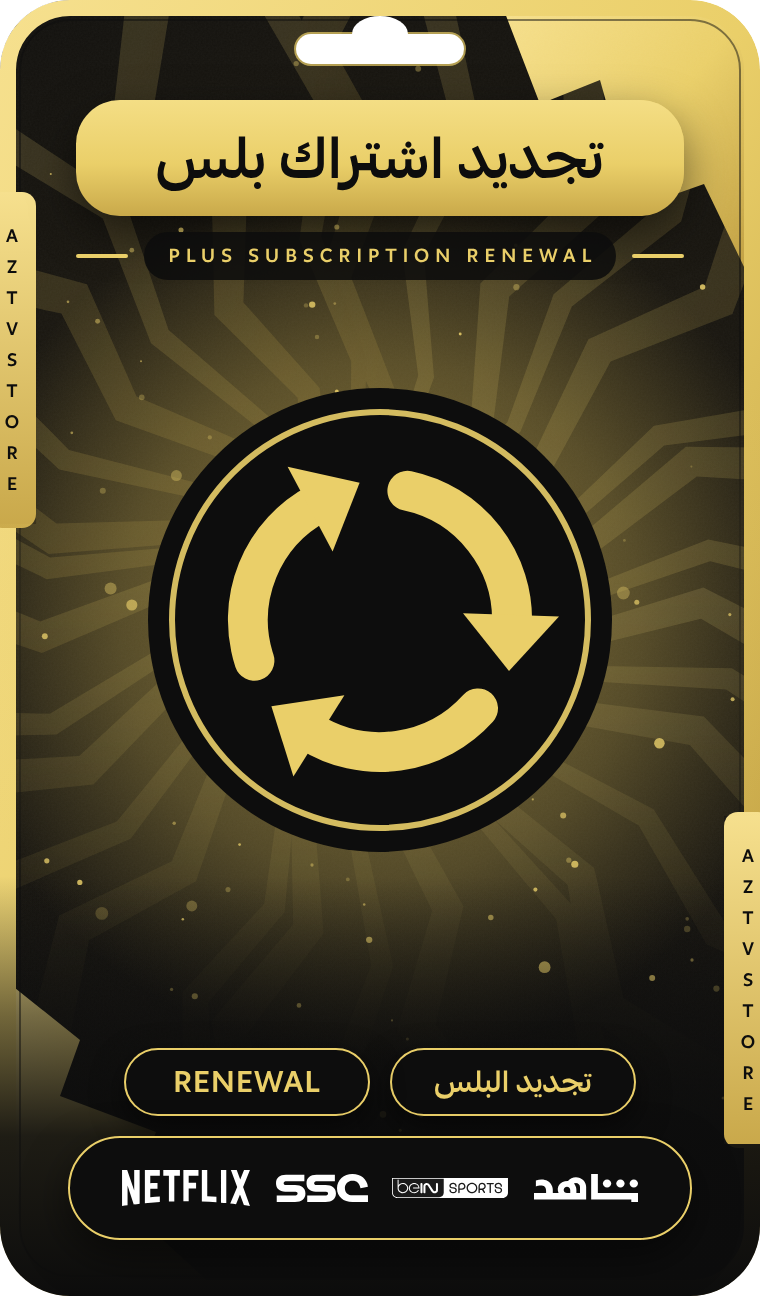
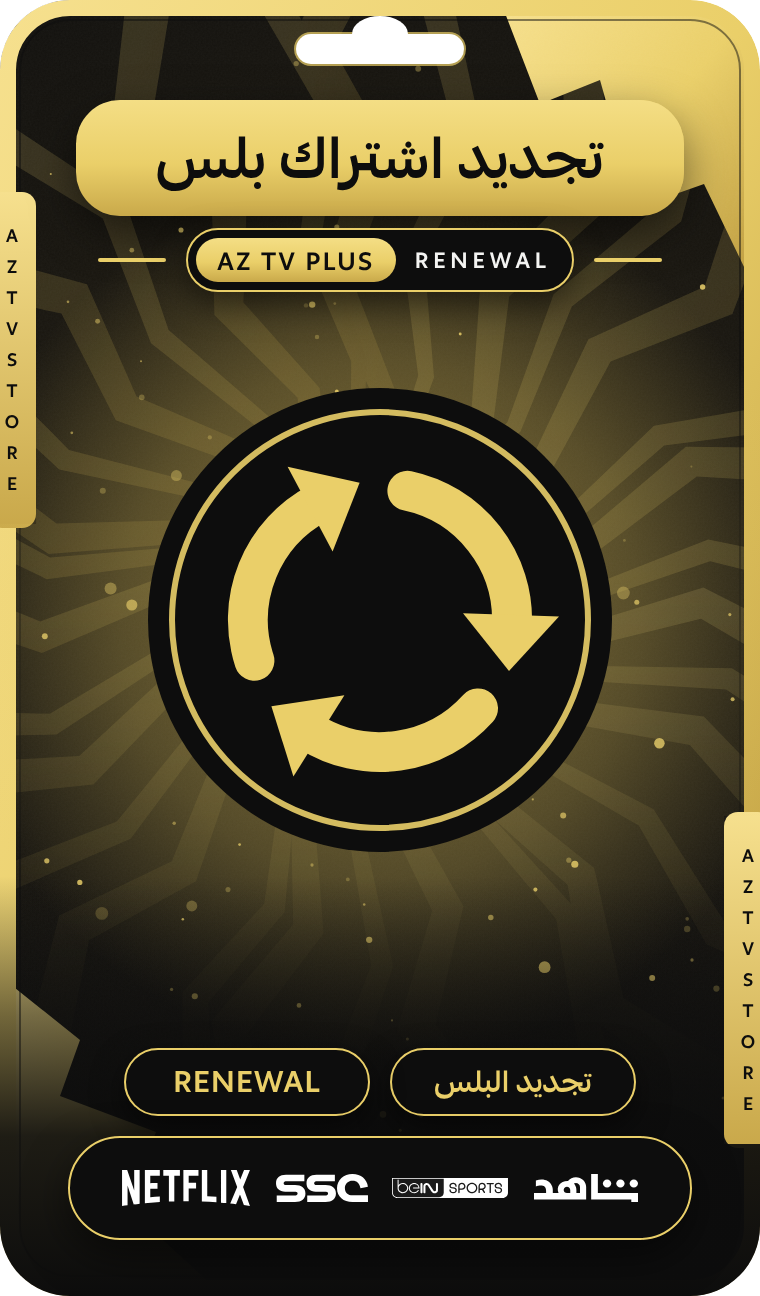
Cards: new star photos on AZ TV 6 months and Plus 1 year; clearer package line
Photo 013 replaces the dark star photo on AZ TV 6 months and photo 012
replaces 008 on Plus 1 year (both supplied already transparent). The small
AZ TV SUBSCRIPTION line under the title becomes a pill with the package name
in a chip (white for AZ TV, gold for AZ TV PLUS), then SUBSCRIPTION or RENEWAL.

Claude-Session: https://claude.ai/code/session_01FygVLnFo91EcE1sreJGJg8

Changed region(s): [[0.1211, 0.1543, 0.8776, 0.2469]]

diff --git a/05-design/shared/subscription-cards/card.html b/05-design/shared/subscription-cards/card.html
@@ -27,10 +27,14 @@
   /* light floor under the duration and logo pills, so they sit on a calm base and the photos fade into it */
   .floor { position: absolute; inset: auto 0 0; height: 210px; z-index: 8; pointer-events: none;
     background: linear-gradient(to top, rgba(244,244,242,1) 0, rgba(244,244,242,.94) 80px, rgba(244,244,242,.6) 140px, rgba(244,244,242,0) 210px); }
-  .sub { position: absolute; left: 0; right: 0; top: 116px; z-index: 10; display: flex; align-items: center; justify-content: center; gap: 8px;
-    direction: ltr; font-size: 9.5px; font-weight: 700; letter-spacing: .32em; color: var(--ink); }
-  .sub::before, .sub::after { content: ""; width: 26px; height: 2px; border-radius: 2px; background: var(--ink); }
-  .sub span { padding: 3px 9px 3px 12px; border-radius: 99px; background: rgba(244,244,242,.92); }
+  /* package line under the title: the package name in a light chip, then SUBSCRIPTION (or RENEWAL) */
+  .sub { position: absolute; left: 0; right: 0; top: 114px; z-index: 10; display: flex; align-items: center; justify-content: center; gap: 10px;
+    direction: ltr; font-weight: 700; }
+  .sub::before, .sub::after { content: ""; width: 34px; height: 2.5px; border-radius: 2px; background: var(--ink); }
+  .sub > span { display: flex; align-items: center; gap: 9px; height: 30px; padding: 0 11px 0 4px; border-radius: 99px;
+    background: var(--ink); color: #D6D6D2; font-size: 11px; letter-spacing: .22em; box-shadow: 0 6px 16px rgba(0,0,0,.25); }
+  .sub b { display: grid; place-items: center; height: 22px; padding: 0 11px; border-radius: 99px; background: var(--white); color: var(--ink);
+    font-size: 12.5px; letter-spacing: .1em; }
   .card > img.tabs { z-index: 9; clip-path: path("M0 97 H18 V262 H0 Z M362 408 H380 V572 H362 Z"); }
   .photos img { position: absolute; height: auto; filter: grayscale(1) contrast(1.15) brightness(1.02);
     -webkit-mask-image: linear-gradient(to bottom, #000 72%, transparent 97%); mask-image: linear-gradient(to bottom, #000 72%, transparent 97%); }
@@ -69,9 +73,9 @@
   .plus .floor { background: linear-gradient(to top, rgba(13,13,13,1) 0, rgba(13,13,13,.92) 80px, rgba(13,13,13,.55) 140px, rgba(13,13,13,0) 210px); }
   .plus .photos img { filter: grayscale(1) sepia(.55) saturate(1.25) contrast(1.12) brightness(.96); }
   .plus .title { background: linear-gradient(180deg, #F4DE85, var(--gold) 55%, #C9A94A); color: var(--ink); box-shadow: 0 8px 22px rgba(0,0,0,.5); }
-  .plus .sub { color: var(--gold); }
   .plus .sub::before, .plus .sub::after { background: var(--gold); }
-  .plus .sub span { background: rgba(13,13,13,.88); }
+  .plus .sub > span { border: 1.5px solid var(--gold); color: var(--white); box-shadow: 0 6px 16px rgba(0,0,0,.5); }
+  .plus .sub b { background: linear-gradient(180deg, #F4DE85, var(--gold) 55%, #C9A94A); }
   .plus .duration span { background: var(--ink); color: var(--gold); border: 1.5px solid var(--gold); box-shadow: 0 6px 16px rgba(0,0,0,.5); }
   .plus .logos { border: 1.5px solid var(--gold); box-shadow: 0 8px 22px rgba(0,0,0,.5); }
   .plus .badge span { background: var(--gold); border-color: var(--ink); }
@@ -94,7 +98,7 @@
   <div class="floor"></div>
   <img class="bg tabs" id="tabs" alt="">
   <div class="title" id="title"></div>
-  <div class="sub"><span id="sub"></span></div>
+  <div class="sub"><span><b id="sub-name"></b><span id="sub"></span></span></div>
   <div class="badge" id="badge"></div>
   <div class="duration"><span class="ar" id="d-ar"></span><span class="en" id="d-en"></span></div>
   <div class="logos" id="logos"></div>
@@ -119,7 +123,7 @@ const CARDS = {
   "aztv-6m": {
     bg: REG, title: "اشتراك ٦ شهور", dEn: "6 MONTHS", dAr: "٦ شهور",
     photos: [
-      { src: ST + "06-antony-starr-g20.png", left: 147, top: 97, width: 290, lift: 1.22, fadeTop: true },
+      { src: PH + "013-blue-suit-eagle-shoulder-cape.png", left: 88, top: 133, width: 455 },
       { src: PH + "010-barcelona-curly-hair-crossed-fingers.png", left: -38, top: 160, width: 330 }
     ]
   },
@@ -141,15 +145,15 @@ const CARDS = {
   },
   // 5. AZ TV Plus, 1 year
   "plus-12m": {
-    plus: true, bg: PLUS, title: "اشتراك بلس سنة", dEn: "1 YEAR", dAr: "سنة", sub: "AZ TV PLUS SUBSCRIPTION",
+    plus: true, bg: PLUS, title: "اشتراك بلس سنة", dEn: "1 YEAR", dAr: "سنة",
     photos: [
-      { src: PH + "008-man-long-hair-dark-coat-chair.png", left: -20, top: 133, width: 441, lift: 1.15 },
+      { src: PH + "012-red-blue-spider-suit.png", left: 142, top: 156, width: 358 },
       { src: PH + "001-argentina-kit-10.png", left: -76, top: 134, width: 360 }
     ]
   },
   // 6. AZ TV Plus, 1 year, two devices
   "plus-12m-2dev": {
-    plus: true, bg: PLUS, title: "اشتراك بلس سنة", dEn: "1 YEAR", dAr: "سنة", sub: "AZ TV PLUS SUBSCRIPTION", badge: ["جهازين", "2 DEVICES"],
+    plus: true, bg: PLUS, title: "اشتراك بلس سنة", dEn: "1 YEAR", dAr: "سنة", badge: ["جهازين", "2 DEVICES"],
     photos: [
       { src: PH + "002-man-black-coat.png", left: 106, top: 171, width: 246, lift: 1.1 },
       { src: PH + "006-yellow-navy-kit-captain.png", left: -110, top: 167, width: 505 }
@@ -157,7 +161,7 @@ const CARDS = {
   },
   // 7. AZ TV Plus, 6 months
   "plus-6m": {
-    plus: true, bg: PLUS, title: "اشتراك بلس ٦ شهور", dEn: "6 MONTHS", dAr: "٦ شهور", sub: "AZ TV PLUS SUBSCRIPTION",
+    plus: true, bg: PLUS, title: "اشتراك بلس ٦ شهور", dEn: "6 MONTHS", dAr: "٦ شهور",
     photos: [
       { src: ST + "03-cillian-murphy-the-immortal-man.png", left: 182, top: 150, width: 230 },
       { src: PH + "004-barcelona-captain.png", left: -168, top: 127, width: 483 }
@@ -165,7 +169,7 @@ const CARDS = {
   },
   // 8. AZ TV Plus, 3 months
   "plus-3m": {
-    plus: true, bg: PLUS, title: "اشتراك بلس ٣ شهور", dEn: "3 MONTHS", dAr: "٣ شهور", sub: "AZ TV PLUS SUBSCRIPTION",
+    plus: true, bg: PLUS, title: "اشتراك بلس ٣ شهور", dEn: "3 MONTHS", dAr: "٣ شهور",
     photos: [
       { src: ST + "04-lee-jung-jae-squid-game-3.png", left: 99, top: 77, width: 366, lift: 1.15 },
       { src: PH + "011-light-blue-kit-hands-behind-back.png", left: -110, top: 172, width: 457 }
@@ -173,11 +177,11 @@ const CARDS = {
   },
   // 9. AZ TV (regular) renewal: no faces
   "renew-aztv": {
-    renew: true, bg: REG, title: "تجديد الاشتراك", dEn: "RENEWAL", dAr: "تجديد", sub: "SUBSCRIPTION RENEWAL", photos: []
+    renew: true, bg: REG, title: "تجديد الاشتراك", dEn: "RENEWAL", dAr: "تجديد", photos: []
   },
   // 10. AZ TV Plus renewal: no faces
   "renew-plus": {
-    plus: true, renew: true, bg: PLUS, title: "تجديد اشتراك بلس", dEn: "RENEWAL", dAr: "تجديد البلس", sub: "PLUS SUBSCRIPTION RENEWAL", photos: []
+    plus: true, renew: true, bg: PLUS, title: "تجديد اشتراك بلس", dEn: "RENEWAL", dAr: "تجديد البلس", photos: []
   }
 };
 const c = CARDS[new URLSearchParams(location.search).get("card") || "aztv-3m"];
@@ -203,7 +207,8 @@ if (c.renew) {
 }
 document.getElementById("bg").src = document.getElementById("tabs").src = c.bg;
 document.getElementById("title").textContent = c.title;
-document.getElementById("sub").textContent = c.sub || "AZ TV SUBSCRIPTION";
+document.getElementById("sub-name").textContent = c.plus ? "AZ TV PLUS" : "AZ TV";
+document.getElementById("sub").textContent = c.renew ? "RENEWAL" : "SUBSCRIPTION";
 document.getElementById("d-en").textContent = c.dEn;
 document.getElementById("d-ar").textContent = c.dAr;
 const photos = document.getElementById("photos");

diff --git a/05-design/shared/subscription-cards/README.md b/05-design/shared/subscription-cards/README.md
@@ -52,20 +52,21 @@ Built from `card.html` in the accepted look of card 3, with the card photos 001-
 - **AZ TV cards** (white): as card 3, unchanged.
 - **AZ TV Plus cards** (`plus: true`): the black and gold card background, gold title pill with black text, gold «AZ TV PLUS SUBSCRIPTION» line, warm gold-toned portraits, a gold light at the burst centre, a dark floor, black duration and logo pills with a gold edge.
 - **Renewal cards** (`renew: true`): no faces; three renewal arrows in a black disc at the burst centre (white on AZ TV, gold on Plus).
+- **Package line** under the title (all cards, 2026-10-24): a black pill with the package name in a chip, «AZ TV» (white chip) or «AZ TV PLUS» (gold chip), then «SUBSCRIPTION», or «RENEWAL» on the renewal cards. Replaces the small spaced-out «AZ TV SUBSCRIPTION» line, which was hard to read.
 - **Two devices** (card 6): a «جهازين · 2 DEVICES» badge above the duration (`badge`).
 
 | Card | Player (front) | Star (behind) |
 |---|---|---|
 | 1 `aztv-15m` | 003 | Tom Holland (`05`) |
-| 2 `aztv-6m` | 010 | Antony Starr (`06`) |
+| 2 `aztv-6m` | 010 | 013 |
 | 3 `aztv-3m` | 005 | 009 |
 | 4 `aztv-1m` | 007 | Álvaro Morte (`07`) |
-| 5 `plus-12m` | 001 | 008 |
+| 5 `plus-12m` | 001 | 012 |
 | 6 `plus-12m-2dev` | 006 | 002 |
 | 7 `plus-6m` | 004 | Cillian Murphy (`03`) |
 | 8 `plus-3m` | 011 | Lee Jung-jae (`04`) |
 
-Numbers are the photos in `photos/` (cut-outs in `photos/transparent/`); stars are in `stars/latest-roles/vertical/transparent/`. Pairs follow `card-stars.json` where we have the photo; where we don't have that photo yet (Mbappé, Vinícius and Neymar among the players; Kit Harington, Bryan Cranston and others appear in the new photos instead), the closest photo we have stands in. Photos 001 and 007 are the same player, so he is on two cards (5 and 4): replace 007 on card 4 when a new player photo arrives. Photo 011 was cut out with `--holes 5000` to clear the white gaps between the arms and the body.
+Numbers are the photos in `photos/` (cut-outs in `photos/transparent/`); stars are in `stars/latest-roles/vertical/transparent/`. Pairs follow `card-stars.json` where we have the photo; where we don't have that photo yet (Mbappé, Vinícius and Neymar among the players; Kit Harington, Bryan Cranston and others appear in the new photos instead), the closest photo we have stands in. Photos 001 and 007 are the same player, so he is on two cards (5 and 4): replace 007 on card 4 when a new player photo arrives. Photos 012 and 05 are the same actor (cards 5 and 1), so card 1 needs another star. 012 and 013 replaced 008 (card 5) and the dark star `06` (card 2) at the client's request. Photo 011 was cut out with `--holes 5000` to clear the white gaps between the arms and the body.
 
 ## How we work
 

diff --git a/PROJECT.md b/PROJECT.md
@@ -197,6 +197,7 @@ new store design/
 
 ## 10. Log
 
+- 2026-10-24: Cards, client edits: AZ TV 6 months now has photo 013 behind the player (was the dark star photo), AZ TV Plus 1 year has photo 012 behind the player (was 008). The «AZ TV SUBSCRIPTION» line under the title on every card is now a clear pill: the package name in a chip («AZ TV» white, «AZ TV PLUS» gold) and «SUBSCRIPTION» or «RENEWAL» beside it.
 - 2026-10-24: All ten subscription cards built in the accepted look (`05-design/shared/subscription-cards/new/`, overview `new/all-cards.jpg`), using the card photos 001-011 and the latest-roles stars. Plus cards get a gold version of the look (gold title pill, warm portraits, dark floor); the two renewal cards show renewal arrows instead of faces; the two-device Plus card has a «جهازين» badge. Card 3 is unchanged. Waiting for review; who is on which card is in the folder README.
 - 2026-10-24: Subscription card look accepted: `05-design/shared/subscription-cards/new/aztv-3m.png` (اشتراك ٣ شهور). White card with the black burst, black title pill with an «AZ TV SUBSCRIPTION» line under it, two large black-and-white portraits (player in front, star behind), a soft light at the burst centre, a light floor under the duration and logo pills. Built from `card.html`, exported with `node render-cards.cjs <card>`; player photos cut out with `photos/cutout-white.py`. Card 6 months (`aztv-6m.png`) is a trial in the same look; a first Plus trial was rejected and removed. Portraits on both are stand-ins until photos are matched to the name list.
 - 2026-10-24: Card photos batch 3 (010 and 011: Barcelona kit with crossed fingers, royal-blue kit studio portrait) added to `05-design/shared/subscription-cards/photos/originals/`. Eleven photos in total. 011 is a square studio shot, not a tight cut-out like the rest.

diff --git a/05-design/shared/subscription-cards/photos/README.md b/05-design/shared/subscription-cards/photos/README.md
@@ -27,8 +27,10 @@ The photos for the subscription cards (football players and series/film stars; s
 | 009 | `009-man-straw-hat-pinstripe-suit.jpg` | 928×1133 | Straw boater hat, glasses, moustache, pinstripe suit, holding a chocolate bar |
 | 010 | `010-barcelona-curly-hair-crossed-fingers.jpg` | 1500×2000 | Curly hair, Barcelona kit, tongue out, hands crossed on chest |
 | 011 | `011-light-blue-kit-hands-behind-back.jpg` | 2000×2000 | Square studio portrait, royal-blue kit with white collar, hands behind back, looking at camera; white background, not a tight cut-out |
+| 012 | `012-red-blue-spider-suit.png` | 540×740 | Red and blue spider suit, head tilted, looking at camera; already transparent (small file, fine at card size) |
+| 013 | `013-blue-suit-eagle-shoulder-cape.webp` | 1350×1687 | Blue patterned suit, silver eagle on the shoulder, red cape, slicked hair; already transparent |
 
-Batches 1 (001-005), 2 (006-009) and 3 (010-011). More images to come.
+Batches 1 (001-005), 2 (006-009), 3 (010-011) and 4 (012-013, already transparent: copied to `transparent/` as PNG without cutting). More images to come.
 
 ## To check before the cards are built
 
